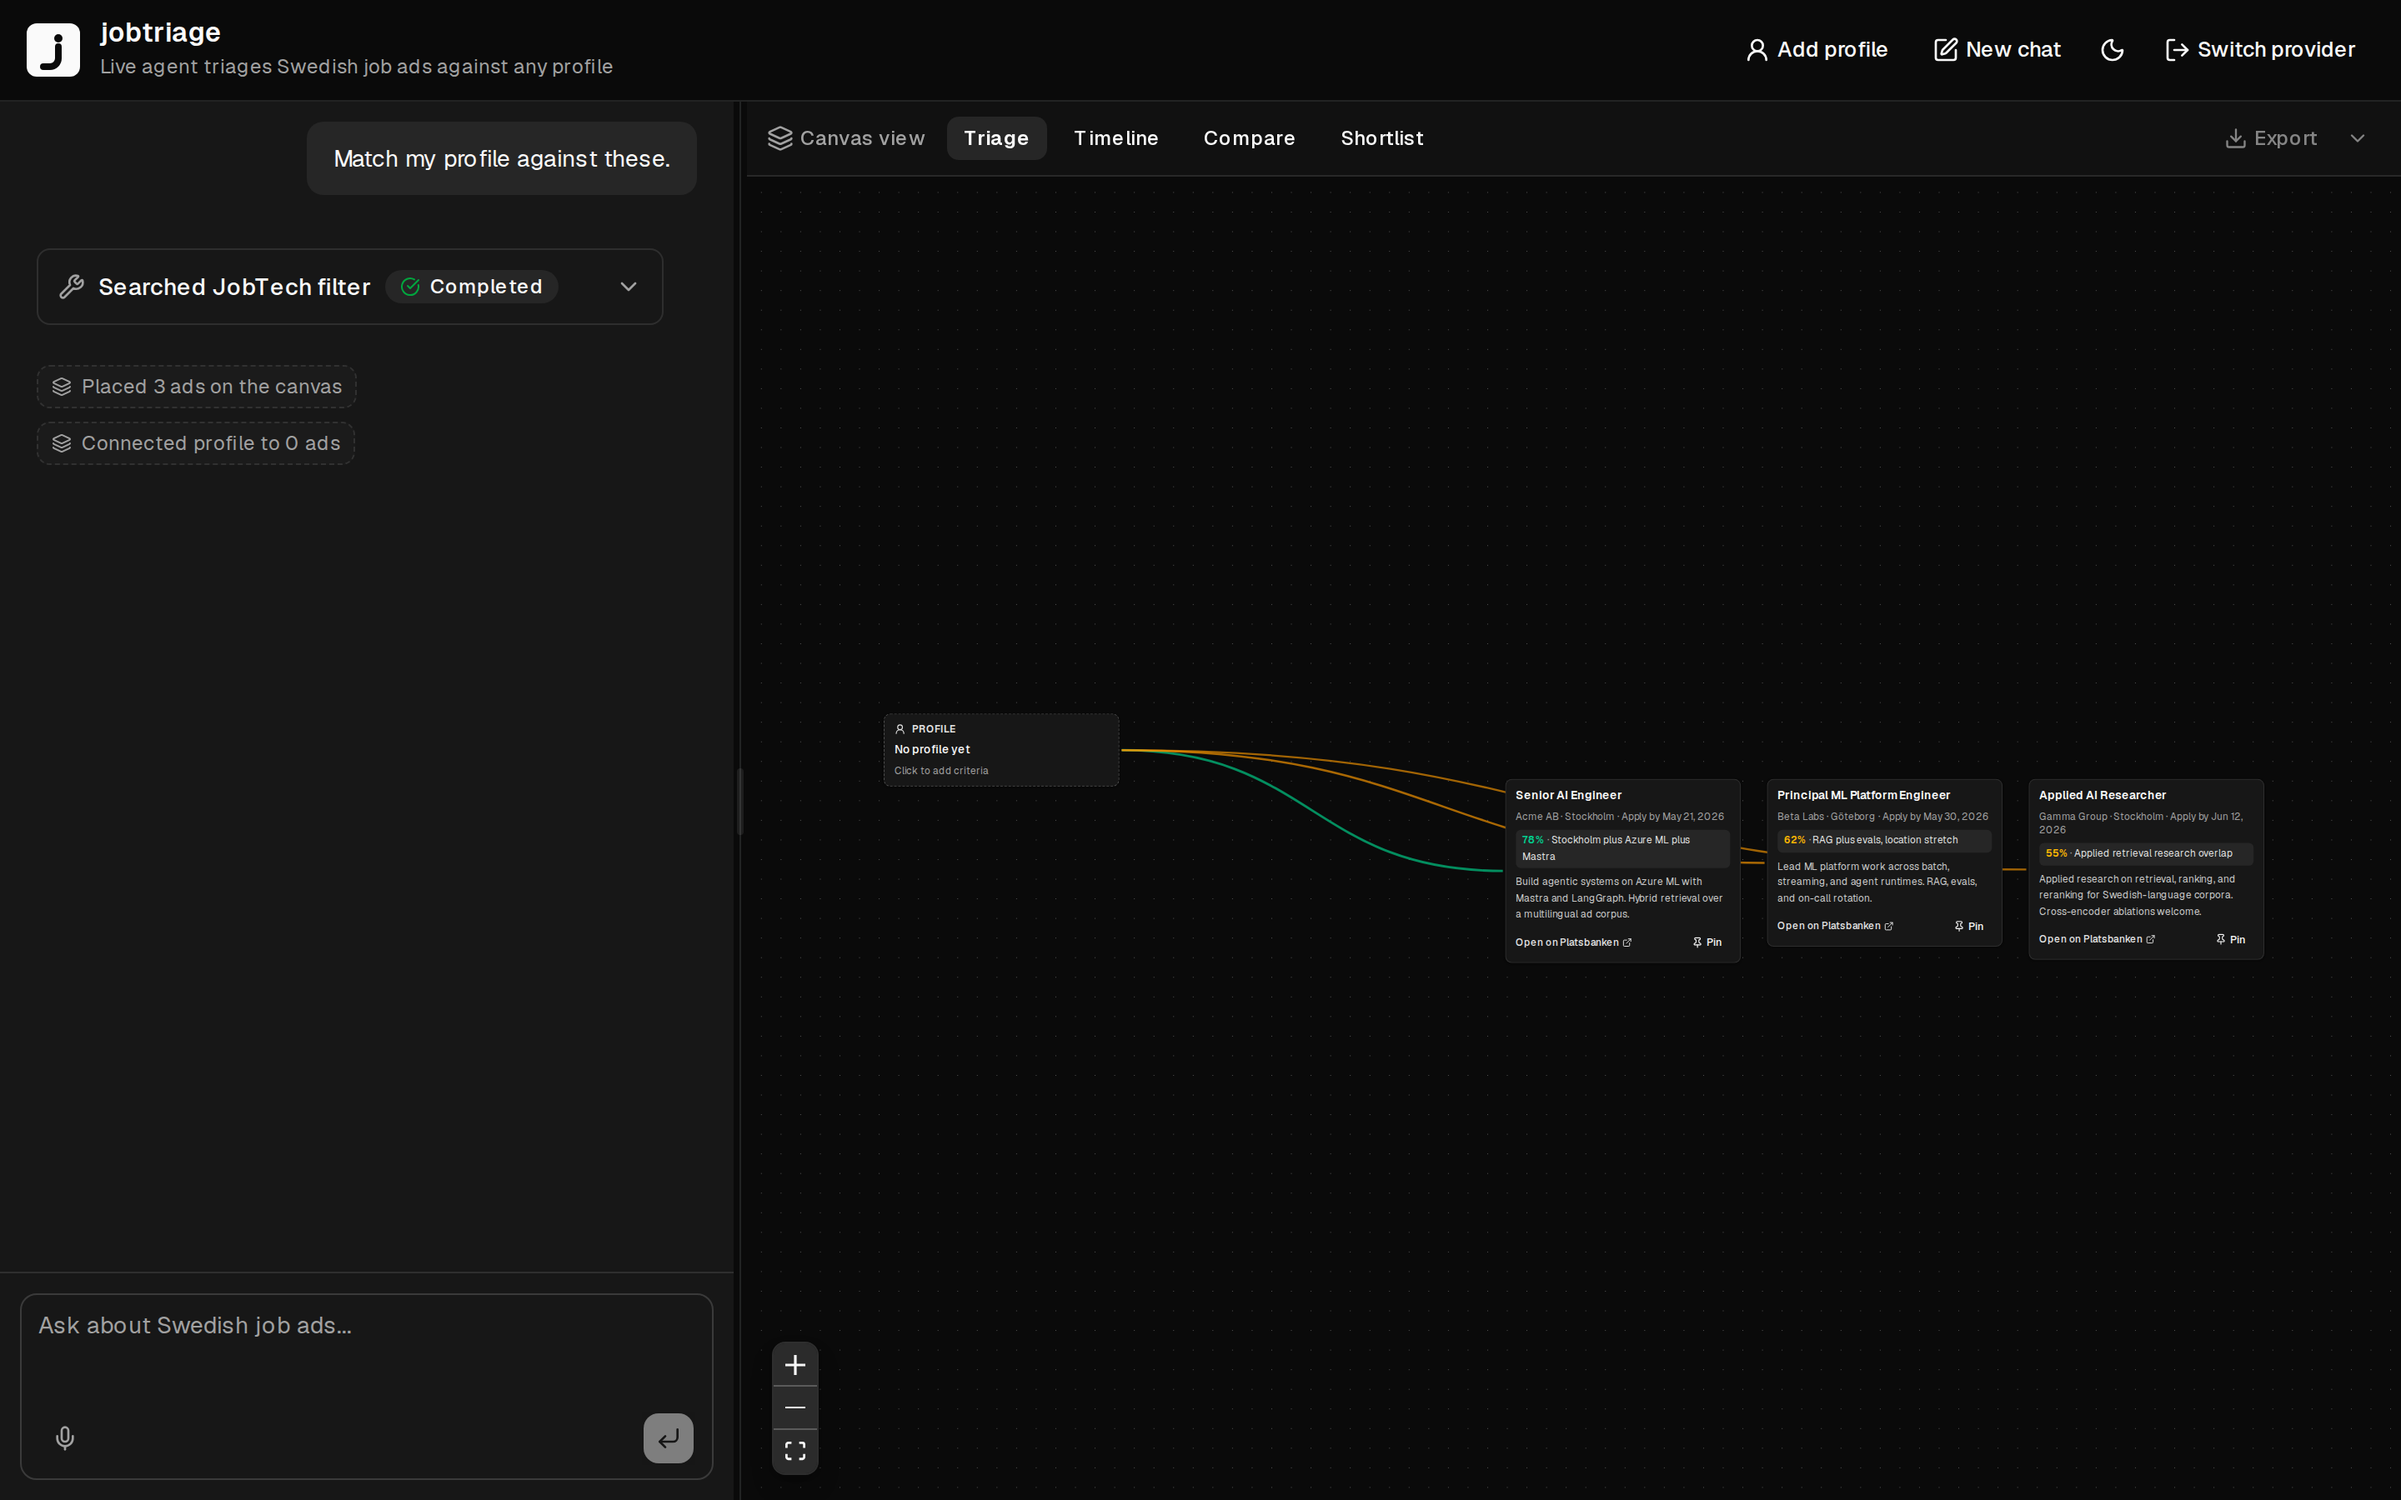
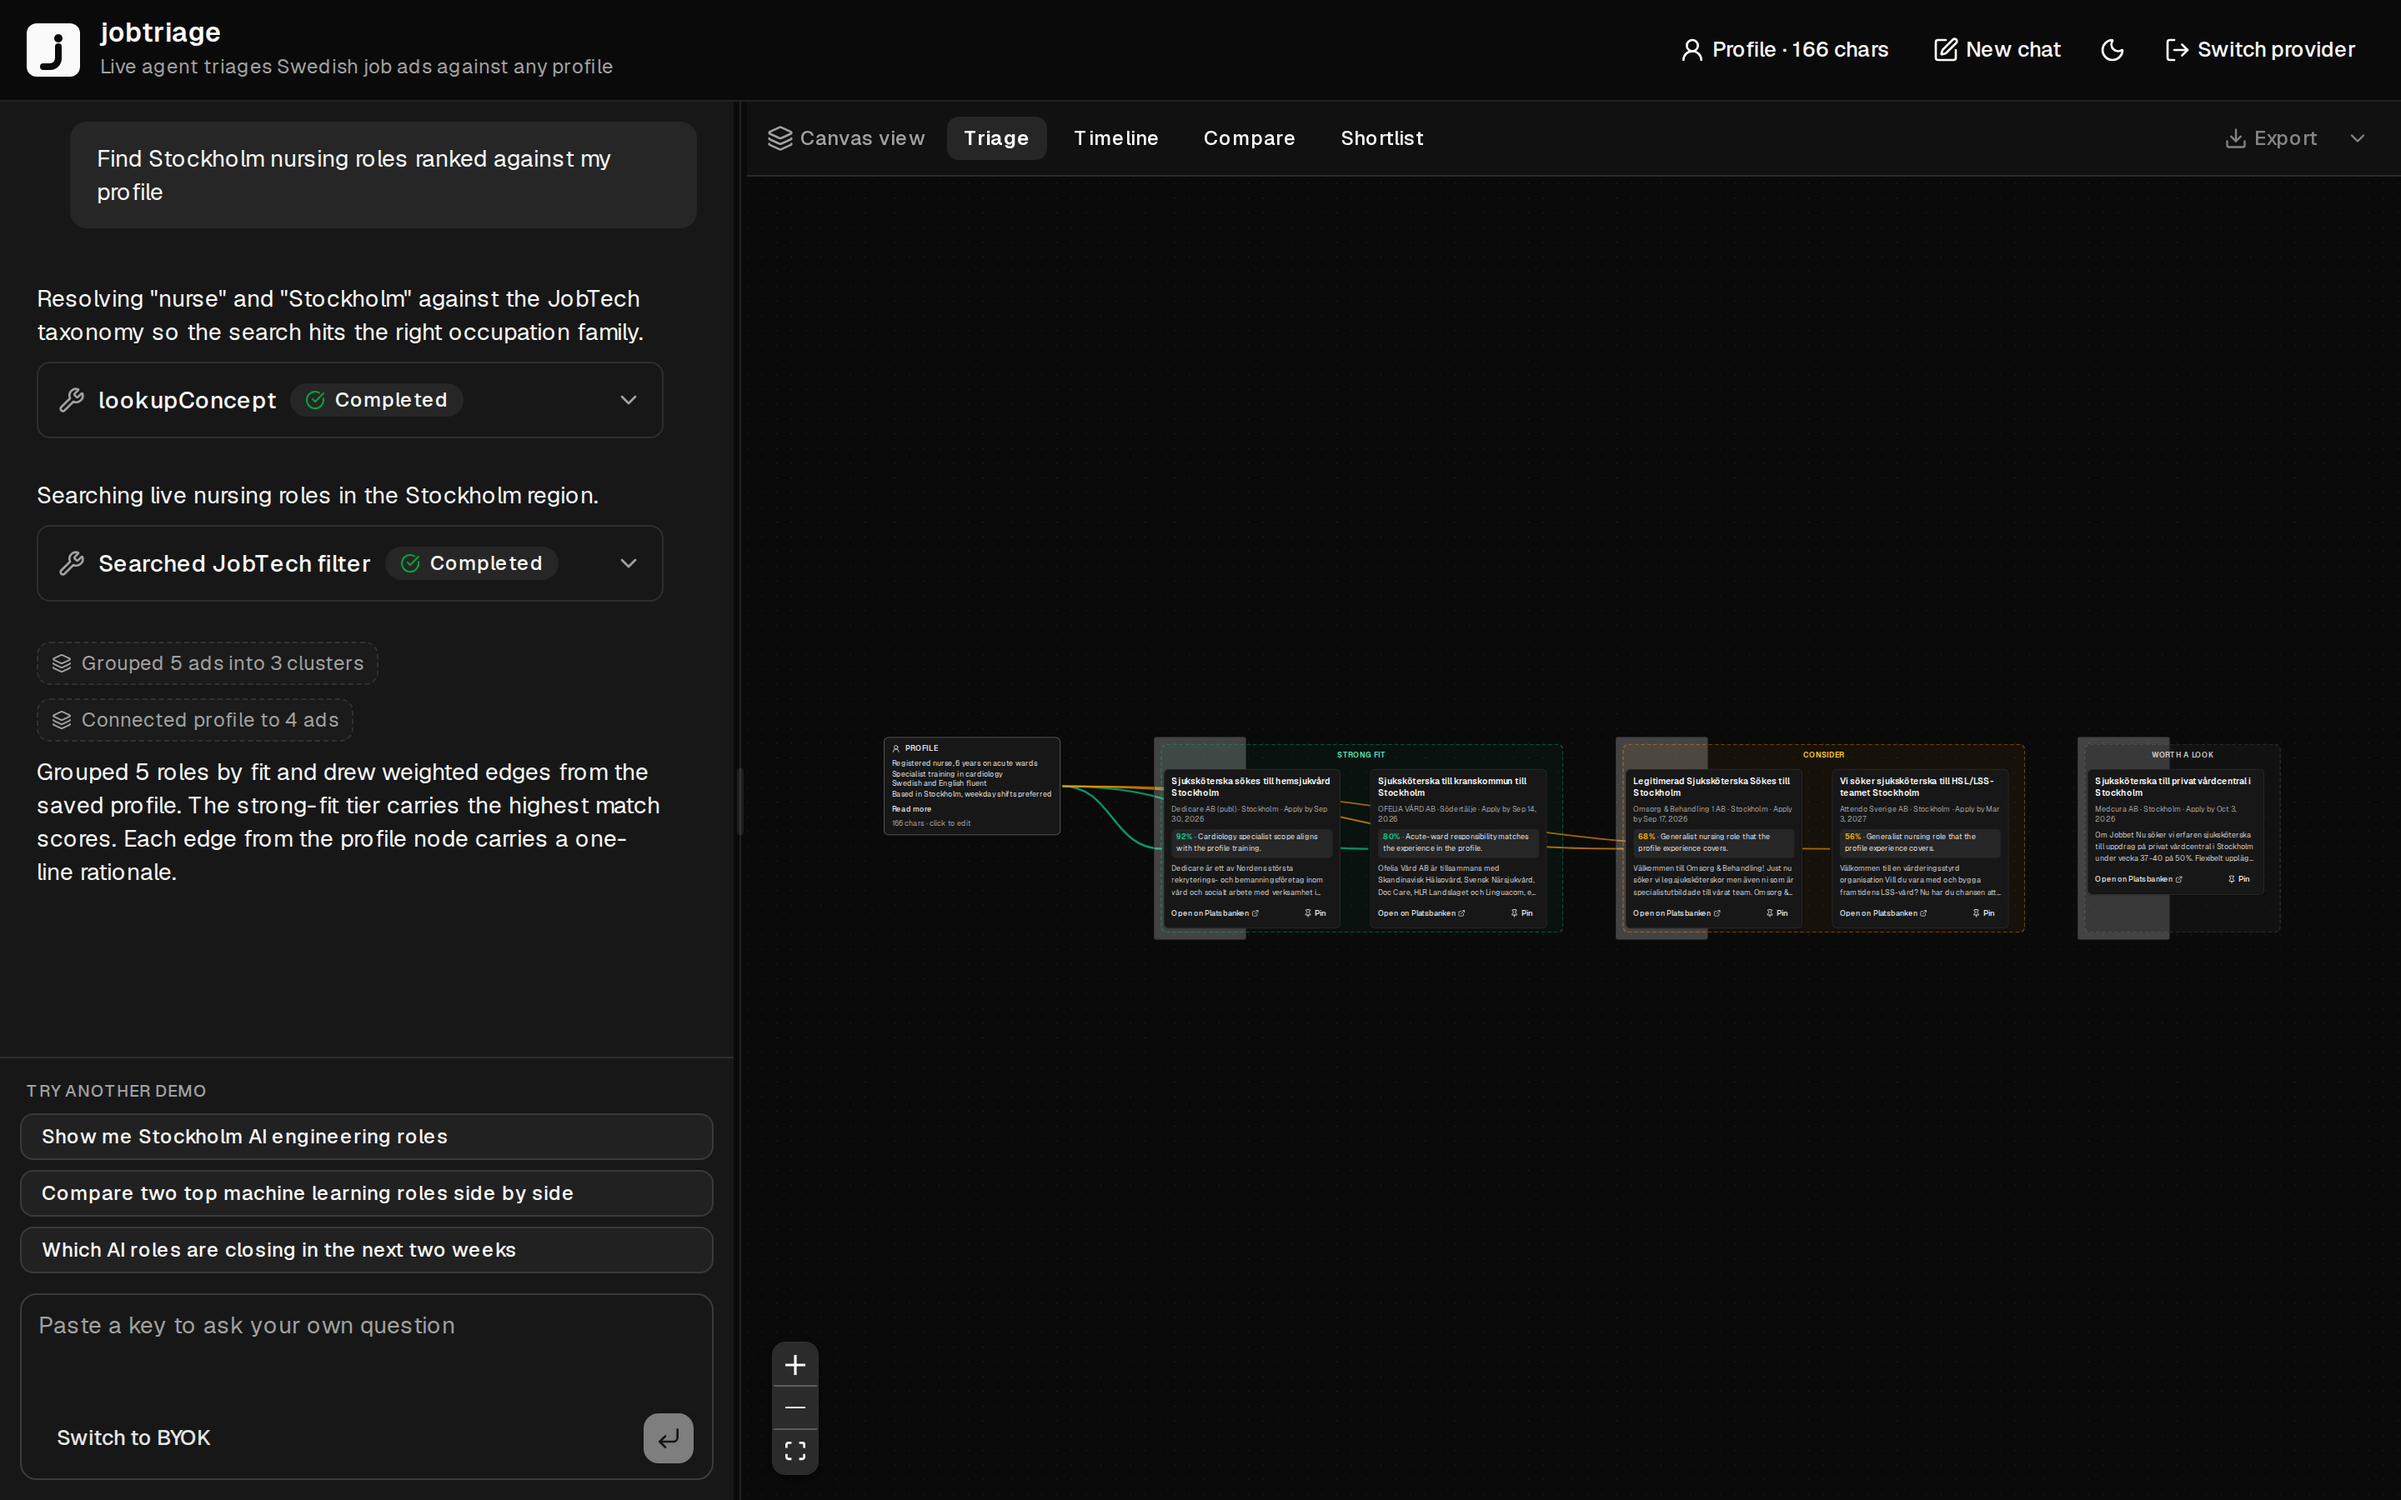
docs(readme): swap in the resolved grouped-tier screenshot

diff --git a/README.md b/README.md
@@ -12,7 +12,7 @@
 
 <picture>
   <source media="(prefers-color-scheme: dark)" srcset="web/evidence/readme/dark.png">
-  <img src="web/evidence/readme/light.png" alt="The jobtriage canvas: a chat rail on the left, and three ad cards on the right connected to the profile node by colored edges carrying a match percentage and one-line rationale each">
+  <img src="web/evidence/readme/light.png" alt="The jobtriage canvas: a chat rail on the left, and five nursing ad cards on the right grouped into Strong fit, Consider, and Worth a look clusters, each connected to the profile node by a colored edge carrying a match percentage and one-line rationale">
 </picture>
 
 The demo path replays a scripted session captured against live JobTech ads, so it walks through real cards without needing a provider key. Bring an Anthropic, OpenAI, or Gemini key to drive the agent yourself.
